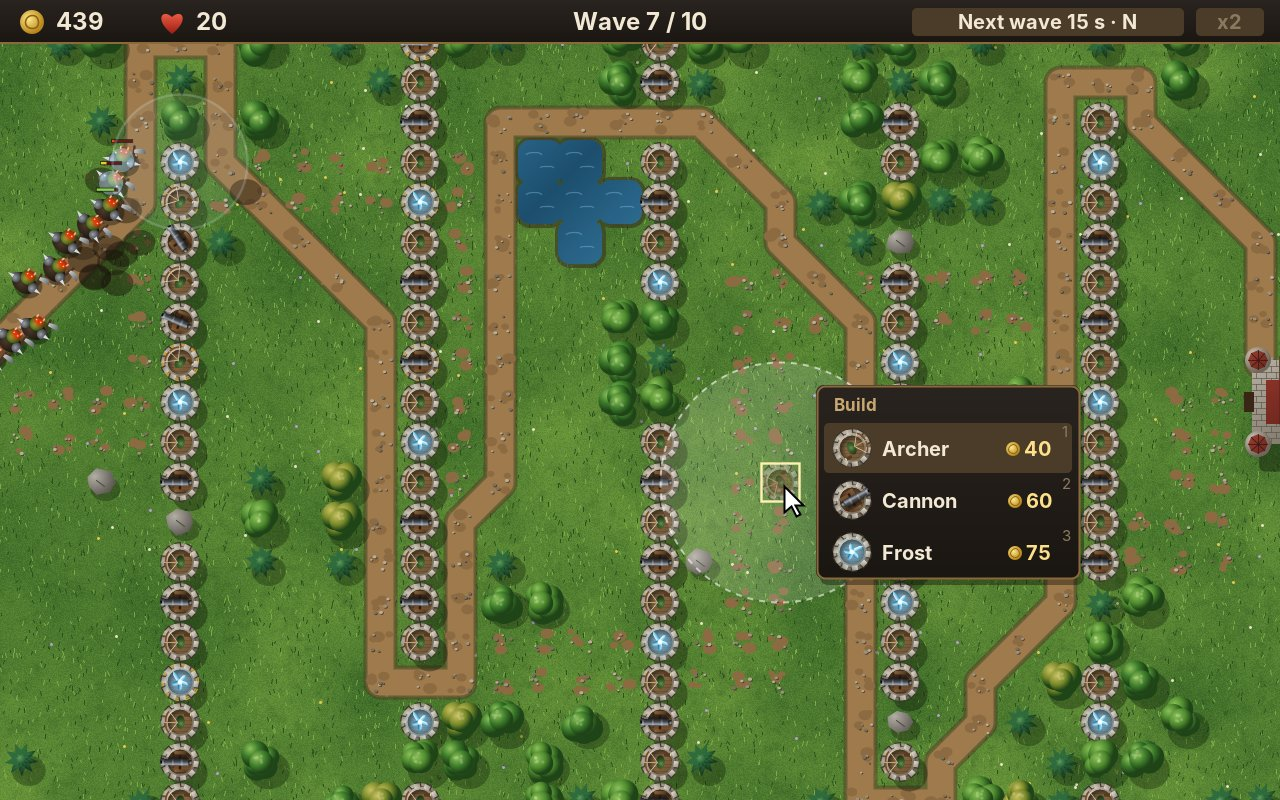
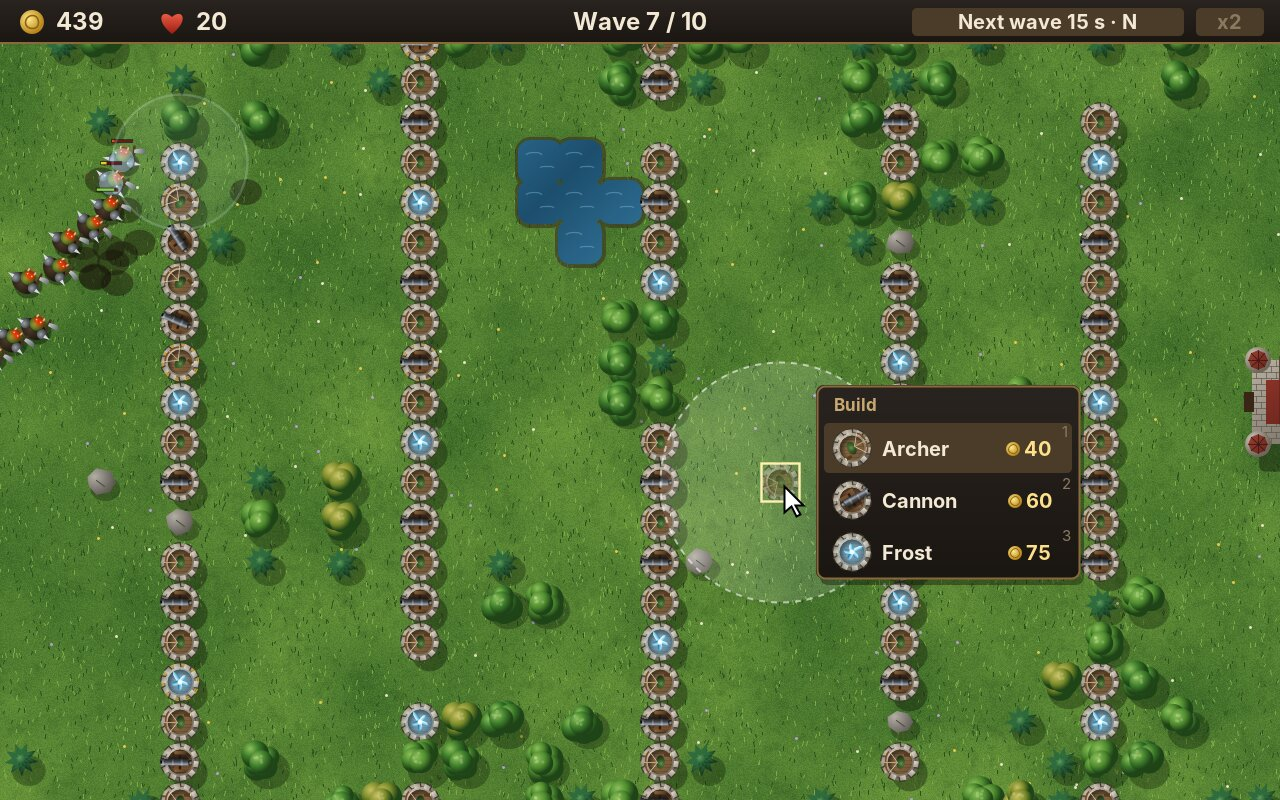
Handbook: Towers draws plain grass on open ground
Chapter 30 explains why open ground shows no trail, and the ground is
now drawn once in squares. New screenshots; pins amade-towers-game
71ad1c02.

Claude-Session: https://claude.ai/code/session_014Ws2hYxAe6TdWMn4xg5igP

diff --git a/docs/handbook/chapters/30-towers.md b/docs/handbook/chapters/30-towers.md
@@ -5,7 +5,7 @@ In every game so far the player steered one thing: a paddle, a ship, a snake, a 
 <figure markdown>
 ![The meadow in the seventh wave, a maze of towers](images/towers/battle.jpg){ width="400" }
 ![The same with the flow field shown](images/towers/flowfield.jpg){ width="400" }
-<figcaption>The meadow in the seventh wave (left): five walls of towers with gaps at alternate ends, and the trail the enemies walk. The same with F3 (right): every tile points the way to the castle, white near it, orange far away.</figcaption>
+<figcaption>The meadow in the seventh wave (left): five walls of towers with gaps at alternate ends, and nothing on the grass to show the way: only the enemies walking it. The same with F3 (right): every tile points the way to the castle, white near it, orange far away.</figcaption>
 </figure>
 
 Tower defence grew out of custom maps for strategy games around 2002, and its two schools have been arguing since: games with a fixed road, where towers stand beside it, and games with open ground, where the player builds the maze. The first is the more common; Towers has both, one switch apart. The second is the harder to make, because the computer must find the way for every enemy again whenever a tower is built, and must say *no* before a tower closes it. This chapter makes that cheap with one idea, the **flow field**, and moves the game from the keyboard to the **mouse**.
@@ -17,7 +17,7 @@ Tower defence grew out of custom maps for strategy games around 2002, and its tw
     - **Menus over the game**: a build menu beside the tile, by mouse and by keys
     - **Units and towers as data files**: blocks of properties, stages that inherit from each other, typos found
     - **Aiming**: turning turrets, leading the target, a burst that hits everything near it
-    - **A ground that changes**: drawn in squares, only where it changed, a few in each frame
+    - **The ground**: drawn once, in squares, each when the camera first sees it
     - **Turned sprites**: 32 directions cached once
 
 The complete game is in [amade-towers-game](https://github.com/datazuul/amade-towers-game).
@@ -92,7 +92,7 @@ The game keeps one flow field, from all the castle's tiles at once, and searches
 --8<-- "amade-towers-game/src/main/java/eu/amadeos/games/towers/domain/Game.java:way"
 ```
 
-The `trail` is the way from each lair to the castle, following the arrows. It is not needed by the rules; it is what the ground shows as a trodden path (Step 7).
+The `trail` is the way from each lair to the castle, following the arrows. The rules do not need it, and nothing draws it (Step 7 says why): the simple builder of the tests and of the title screen puts its towers beside it.
 
 ### May a tower stand here?
 
@@ -415,42 +415,32 @@ The flow field is drawn with F3 as one small arrow sprite per tile, in eight dir
 --8<-- "amade-towers-game/src/main/java/eu/amadeos/games/towers/ui/game/TowersPainter.java:flow"
 ```
 
-### A ground that changes
+### The ground
 
-The ground of a battlefield is the most expensive picture: noise for the grass, ponds with their banks, rocks, the shadows of trees, the lairs and the castle, and on open ground the **trail**, the trodden path the enemies walk. It is drawn as three wide strokes of the whole way, dark rim, lighter edge and bare earth:
-
-```java title="amade-towers-game · ui/game/Art.java"
---8<-- "amade-towers-game/src/main/java/eu/amadeos/games/towers/ui/game/Art.java:trail"
-```
-
-On the road, the trail is not drawn: the road is. It is the union of its tiles' squares, which has sharp corners, rounded by a trick from image processing: grown by a few units and shrunk again, which rounds the inner corners (a **closing**), then shrunk and grown again, which rounds the outer ones (an **opening**). Growing a shape by *r* is adding the outline drawn with a pen 2*r* wide; shrinking it is taking that outline away:
+The ground of a battlefield is the most expensive picture: noise for the grass, ponds with their banks, rocks, the shadows of trees, the lairs and the castle, and the road. The road is the union of its tiles' squares, which has sharp corners, rounded by a trick from image processing: grown by a few units and shrunk again, which rounds the inner corners (a **closing**), then shrunk and grown again, which rounds the outer ones (an **opening**). Growing a shape by *r* is adding the outline drawn with a pen 2*r* wide; shrinking it is taking that outline away:
 
 ```java title="amade-towers-game · ui/game/Art.java"
 --8<-- "amade-towers-game/src/main/java/eu/amadeos/games/towers/ui/game/Art.java:road"
 ```
 
-All of it together takes far too long for a frame, so it must be cached. The road never changes, so on the road the cache could be one picture. On open ground, though, the trail changes with every tower. Caching the whole map as one picture would mean drawing it all again on every click, a stutter each time.
+On open ground there is no road, and no path either: the grass is plain, and the way shows only in where the enemies walk, and in the arrows of F3. An earlier version of this game drew a trodden trail along the current way, which moved with every tower. It looked like a road, though, and a road says "the enemies keep to me", which on open ground is not true. Maze games mostly leave the ground plain, as Desktop Tower Defense and Fieldrunners do, and let the player read the way from the crowd; others draw the way as a line or arrows. Towers keeps the arrows for F3.
 
-So `Terrain` cuts the ground into **squares of 8 × 8 tiles**. Each square is a sprite of its own. After every step, `update` compares the trail of each square, and one tile around it, with what its picture shows, and only a square whose trail changed is drawn again:
+So the ground never changes, and it is drawn once and then only copied. For the meadow, 36 × 22 tiles, one picture of the whole map would do. `Terrain` cuts the ground into **squares of 8 × 8 tiles** anyway, each a sprite of its own, because a map may be much larger than the screen: a sprite drawn in code is drawn when it is first shown, so a square the camera does not see is neither drawn nor copied:
 
 ```java title="amade-towers-game · ui/game/Terrain.java"
 --8<-- "amade-towers-game/src/main/java/eu/amadeos/games/towers/ui/game/Terrain.java:terrain"
 ```
 
-Drawing a square is the same for any square: the part of the grass, the ponds, the trail, the rocks and shadows, all of them clipped to the square by the sprite. The tiles one beyond its edge are drawn as well, so that a pond or a trail that crosses the edge continues into the next square without a seam:
+Drawing a square is the same for any square: the part of the grass, the ponds, the road, the rocks and shadows, all of them clipped to the square by the sprite. The tiles one beyond its edge are drawn as well, so that a pond or a road that crosses the edge continues into the next square without a seam:
 
 ```java title="amade-towers-game · ui/game/Terrain.java"
 --8<-- "amade-towers-game/src/main/java/eu/amadeos/games/towers/ui/game/Terrain.java:draw"
 ```
 
-A tower in the middle of the map can change the trail everywhere: all of it walks round the new tower. Twenty squares to draw in one frame would be the stutter again. So `render` takes over **at most two** new pictures per frame. The others keep showing the old trail for a few frames more, which nobody notices, because the enemies take a second to walk from one tile to the next:
+In each frame, `render` copies the squares the camera sees:
 
 ```java title="amade-towers-game · ui/game/Terrain.java"
 --8<-- "amade-towers-game/src/main/java/eu/amadeos/games/towers/ui/game/Terrain.java:render"
-```
-
-```java title="amade-towers-game · test/ui/game/TowersGameTest.java"
---8<-- "amade-towers-game/src/test/java/eu/amadeos/games/towers/ui/game/TowersGameTest.java:test-terrain"
 ```
 
 Every pixel of a square is covered: the grass is everywhere. Chapter 27 taught `Sprite` to look at a picture's pixels and cache it opaque if none is transparent. A picture *drawn* in code is drawn into a transparent cache, though, and the sprite cannot know in advance that nothing will stay transparent. `opaque()` is the promise, and with it a square is copied as a plain copy, without blending:
@@ -533,7 +523,7 @@ What stays in the game: the ground and its classes, the road and open ground, th
 4. **The longest maze.** Write a test that builds, with a fixed amount of gold, the maze that makes the way from the lair to the castle the longest. Is a greedy builder (always the tile that lengthens the way most) good enough?
 5. **Sell back the maze.** Selling a tower opens the way again, and every enemy takes the shorter way at once. Is that a trick players will use, and should the rules allow it?
 6. **A minimap.** Draw the whole battlefield small in a corner, the towers as dots, the view as a box. A click on it moves the camera there. You will need it in the next chapter.
-7. **Group flow.** Two hundred orcs on one trail walk through each other. Give each a little push away from its neighbours (the spatial grid of chapter 24 finds them) and see how a crowd forms in a gap, and how a troll in it now holds up the wolves behind it. Does LevelTest still win every level?
+7. **Group flow.** Two hundred orcs on one way walk through each other. Give each a little push away from its neighbours (the spatial grid of chapter 24 finds them) and see how a crowd forms in a gap, and how a troll in it now holds up the wolves behind it. Does LevelTest still win every level?
 
 ---
 
